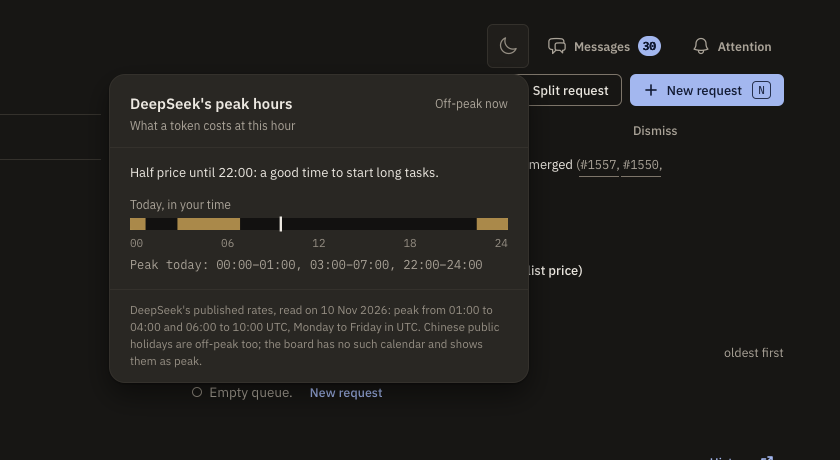
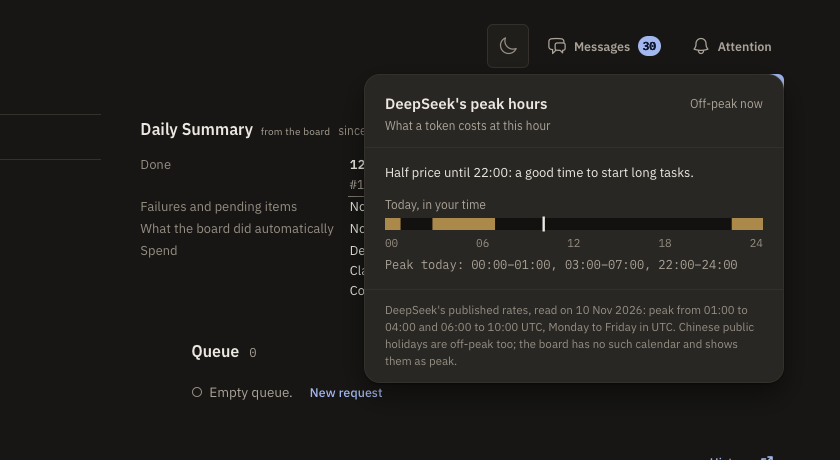
fix(board): the peak window opens under the bar, and its peak state is tested
Anchored to the mark, the opened window left the screen between 481 and
700 px. It now aligns with the bar like Messages and Attention. A test
renders the flame and the moon; the record said it was tested and was not.

diff --git a/assets/css/board.css b/assets/css/board.css
@@ -1867,7 +1867,6 @@ dialog.board-dialog[open] { position: fixed; inset: 0; margin: auto; height: max
 .ab-hub-item__preview { display: -webkit-box; overflow: hidden; -webkit-line-clamp: 2; -webkit-box-orient: vertical; color: var(--ink-muted); font-size: 12.5px; line-height: 18px; }
 .ab-hub-item__action { margin-top: 3px; color: var(--you); font-size: 12px; font-weight: 600; }
 /* DeepSeek's peak hours: one glyph beside the hub, the day inside. */
-.ab-peak { position: relative; }
 .ab-peak > summary { padding-inline: 10px; }
 .ab-peak__glyph { display: inline-flex; color: var(--ink-faint); }
 .ab-peak.is-peak .ab-peak__glyph { color: var(--stale); }
@@ -1897,8 +1896,6 @@ dialog.board-dialog[open] { position: fixed; inset: 0; margin: auto; height: max
 @media (max-width: 480px) {
   .ab-inbox-top { margin-top: -8px; }
   .ab-message-hub { width: 100%; }
-  /* On a phone the day opens across the bar, like the other two windows. */
-  .ab-peak { position: static; }
   .ab-hub-menu__popover { width: 100%; max-height: min(620px, calc(100dvh - 86px)); }
   .ab-hub-item { min-height: 72px; padding: 14px 16px; }
 }

diff --git a/docs/ui-audit/2026-11-11/peak-rate/README.md b/docs/ui-audit/2026-11-11/peak-rate/README.md
@@ -17,4 +17,8 @@ Measured in WebKit on an isolated server with a copy of the data, 2026-11-11 at 
 | Peak, no-preference | 1 animation on the flame |
 | Peak, reduced motion | 0 animations |
 
-`peak-simulated-pt-light-1920.png` is the peak state made in the browser (the class and the icon the server renders in peak), since the capture ran off-peak; the server's peak rendering and the rule are covered by `peak_rate_test.exs`. Not observed: a real switch at the hour in a browser, and the owner's monitor.
+`peak-simulated-pt-light-1920.png` is the peak state made in the browser (the class and the icon the server renders in peak), since the capture ran off-peak; the rule and both renderings (flame and moon) are covered by `peak_rate_test.exs`. Not observed: a real switch at the hour in a browser, and the owner's monitor.
+
+## The window under the bar (#602 review)
+
+The first version anchored the opened window to the mark, so it opened leftward from it. Between the phone rule and a 700 px window it left the screen: its left edge was at −212 px at 481, −93 at 600 and −1 at 700. It now aligns with the bar's right edge like Messages and Attention: left edge 45 px at 481, 164 at 600, 256 at 700, inside at 375, 768, 1280 and 1920 (`open-pt-light-600.png`). Measured in WebKit on an isolated server.
